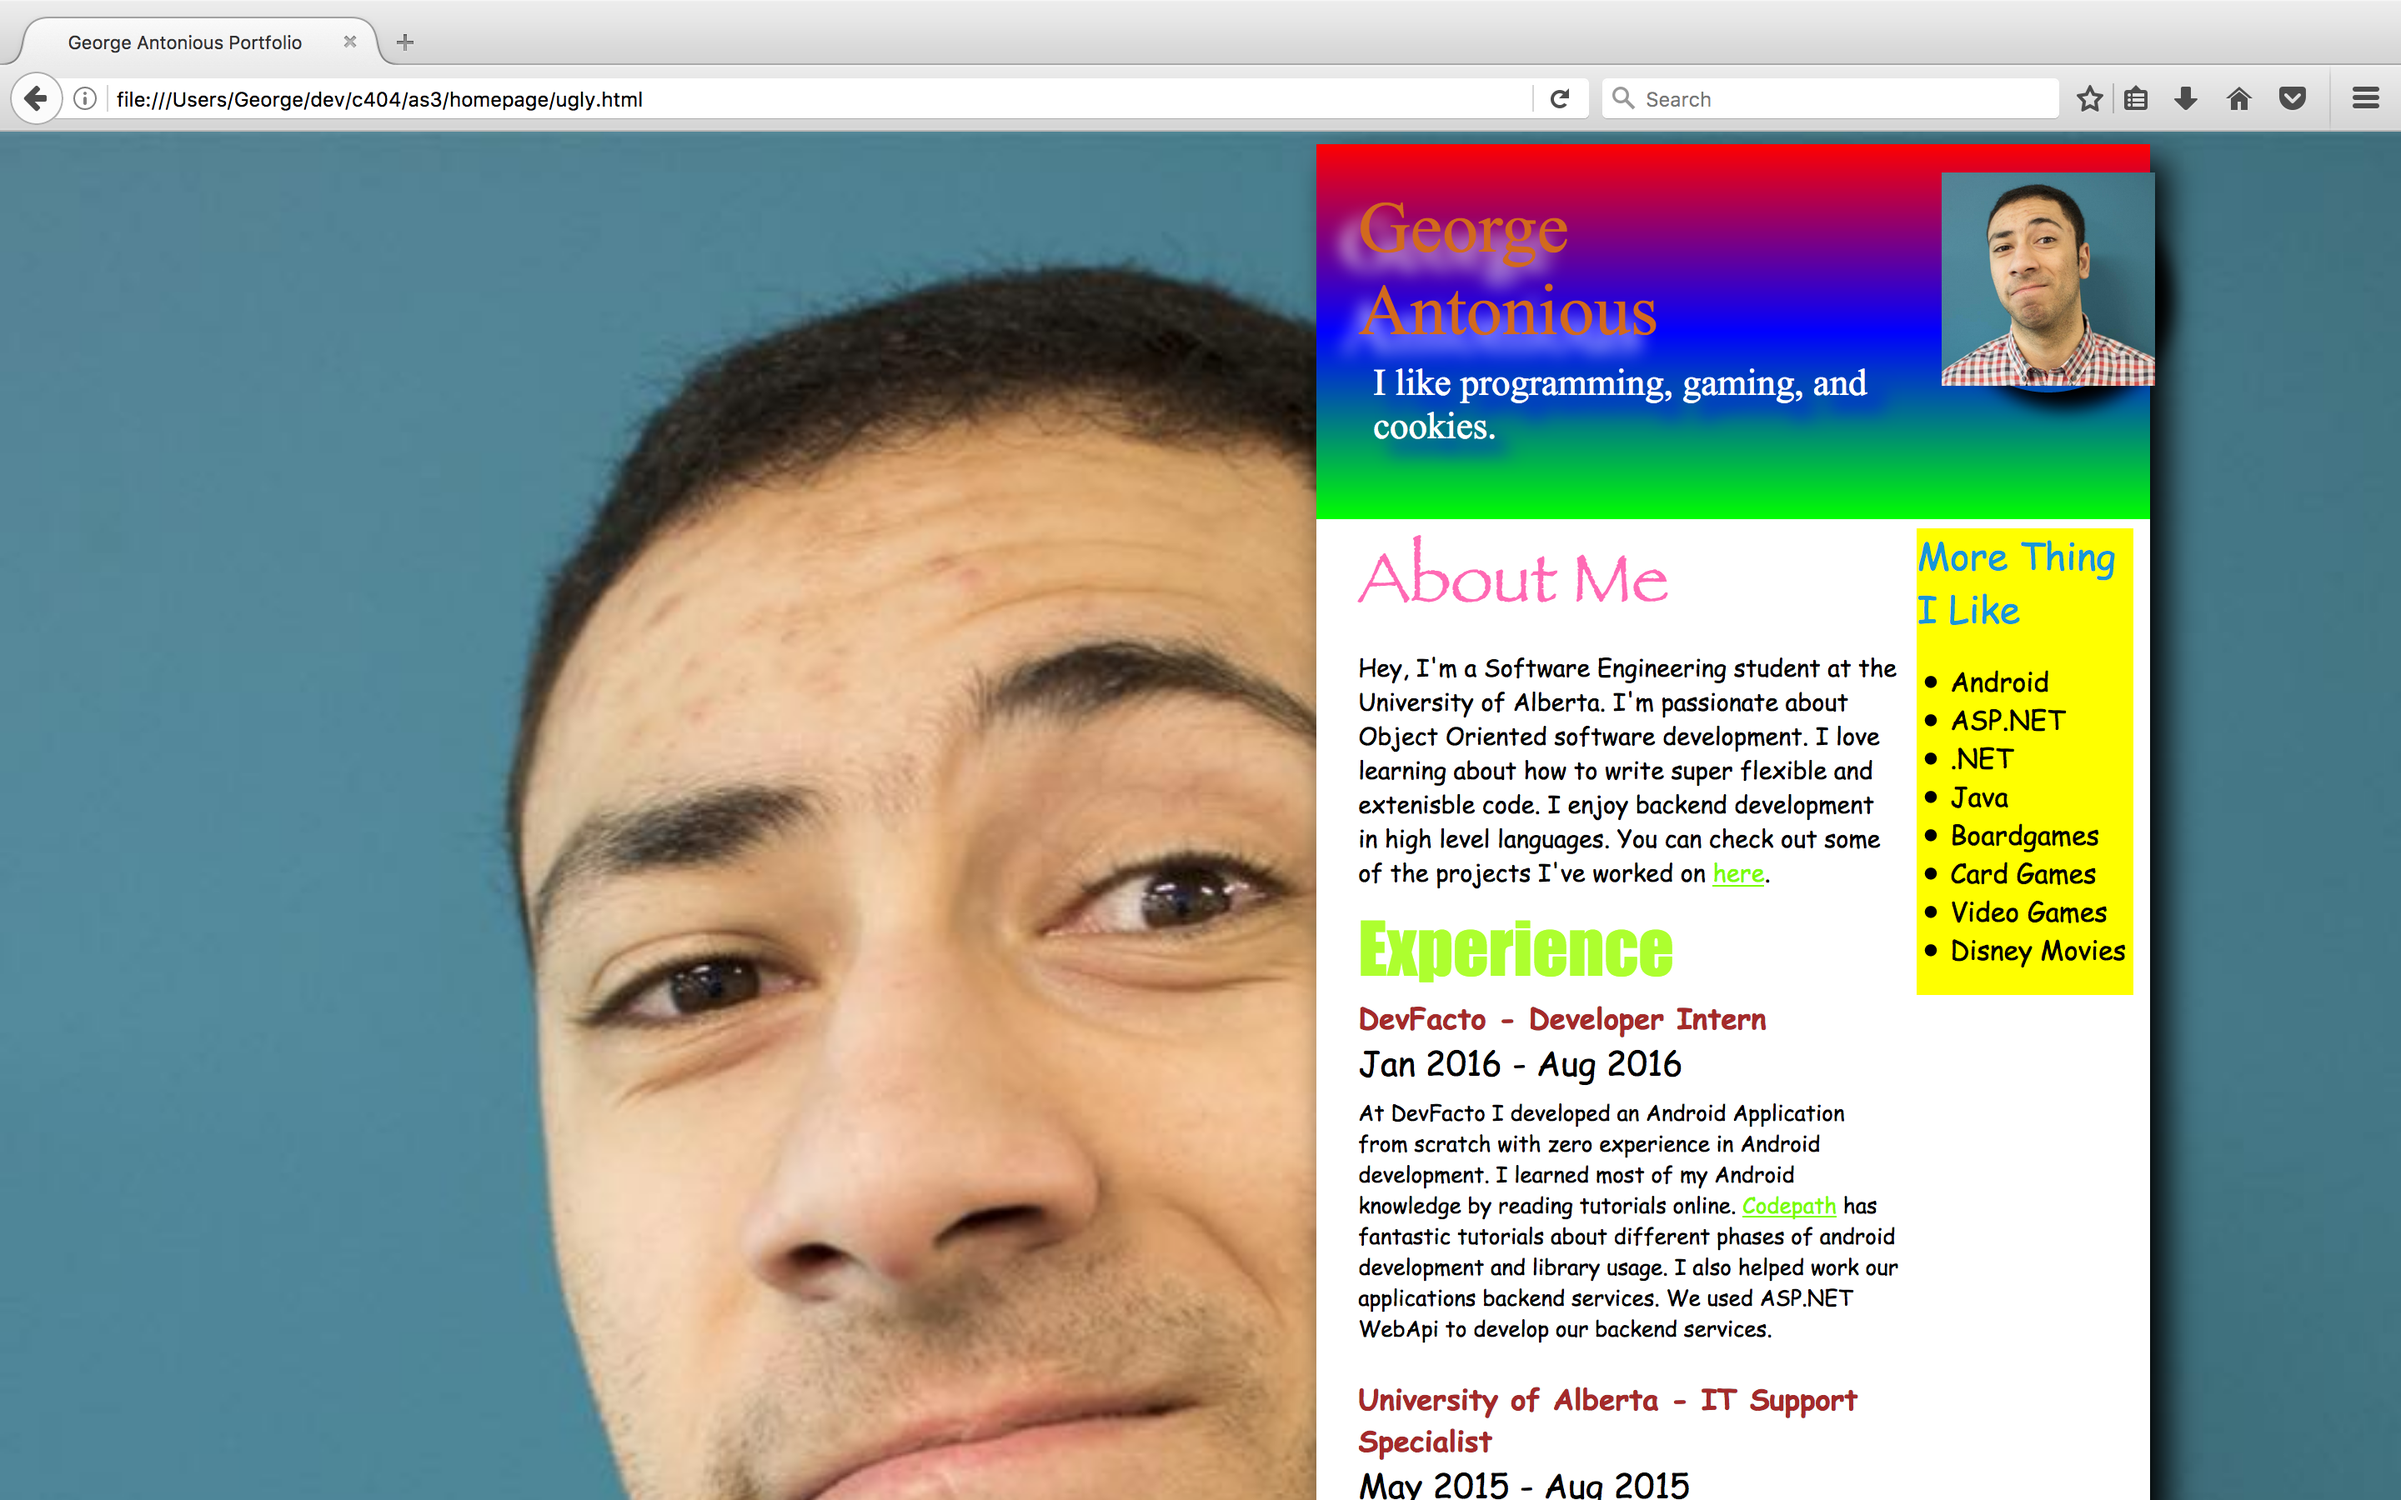
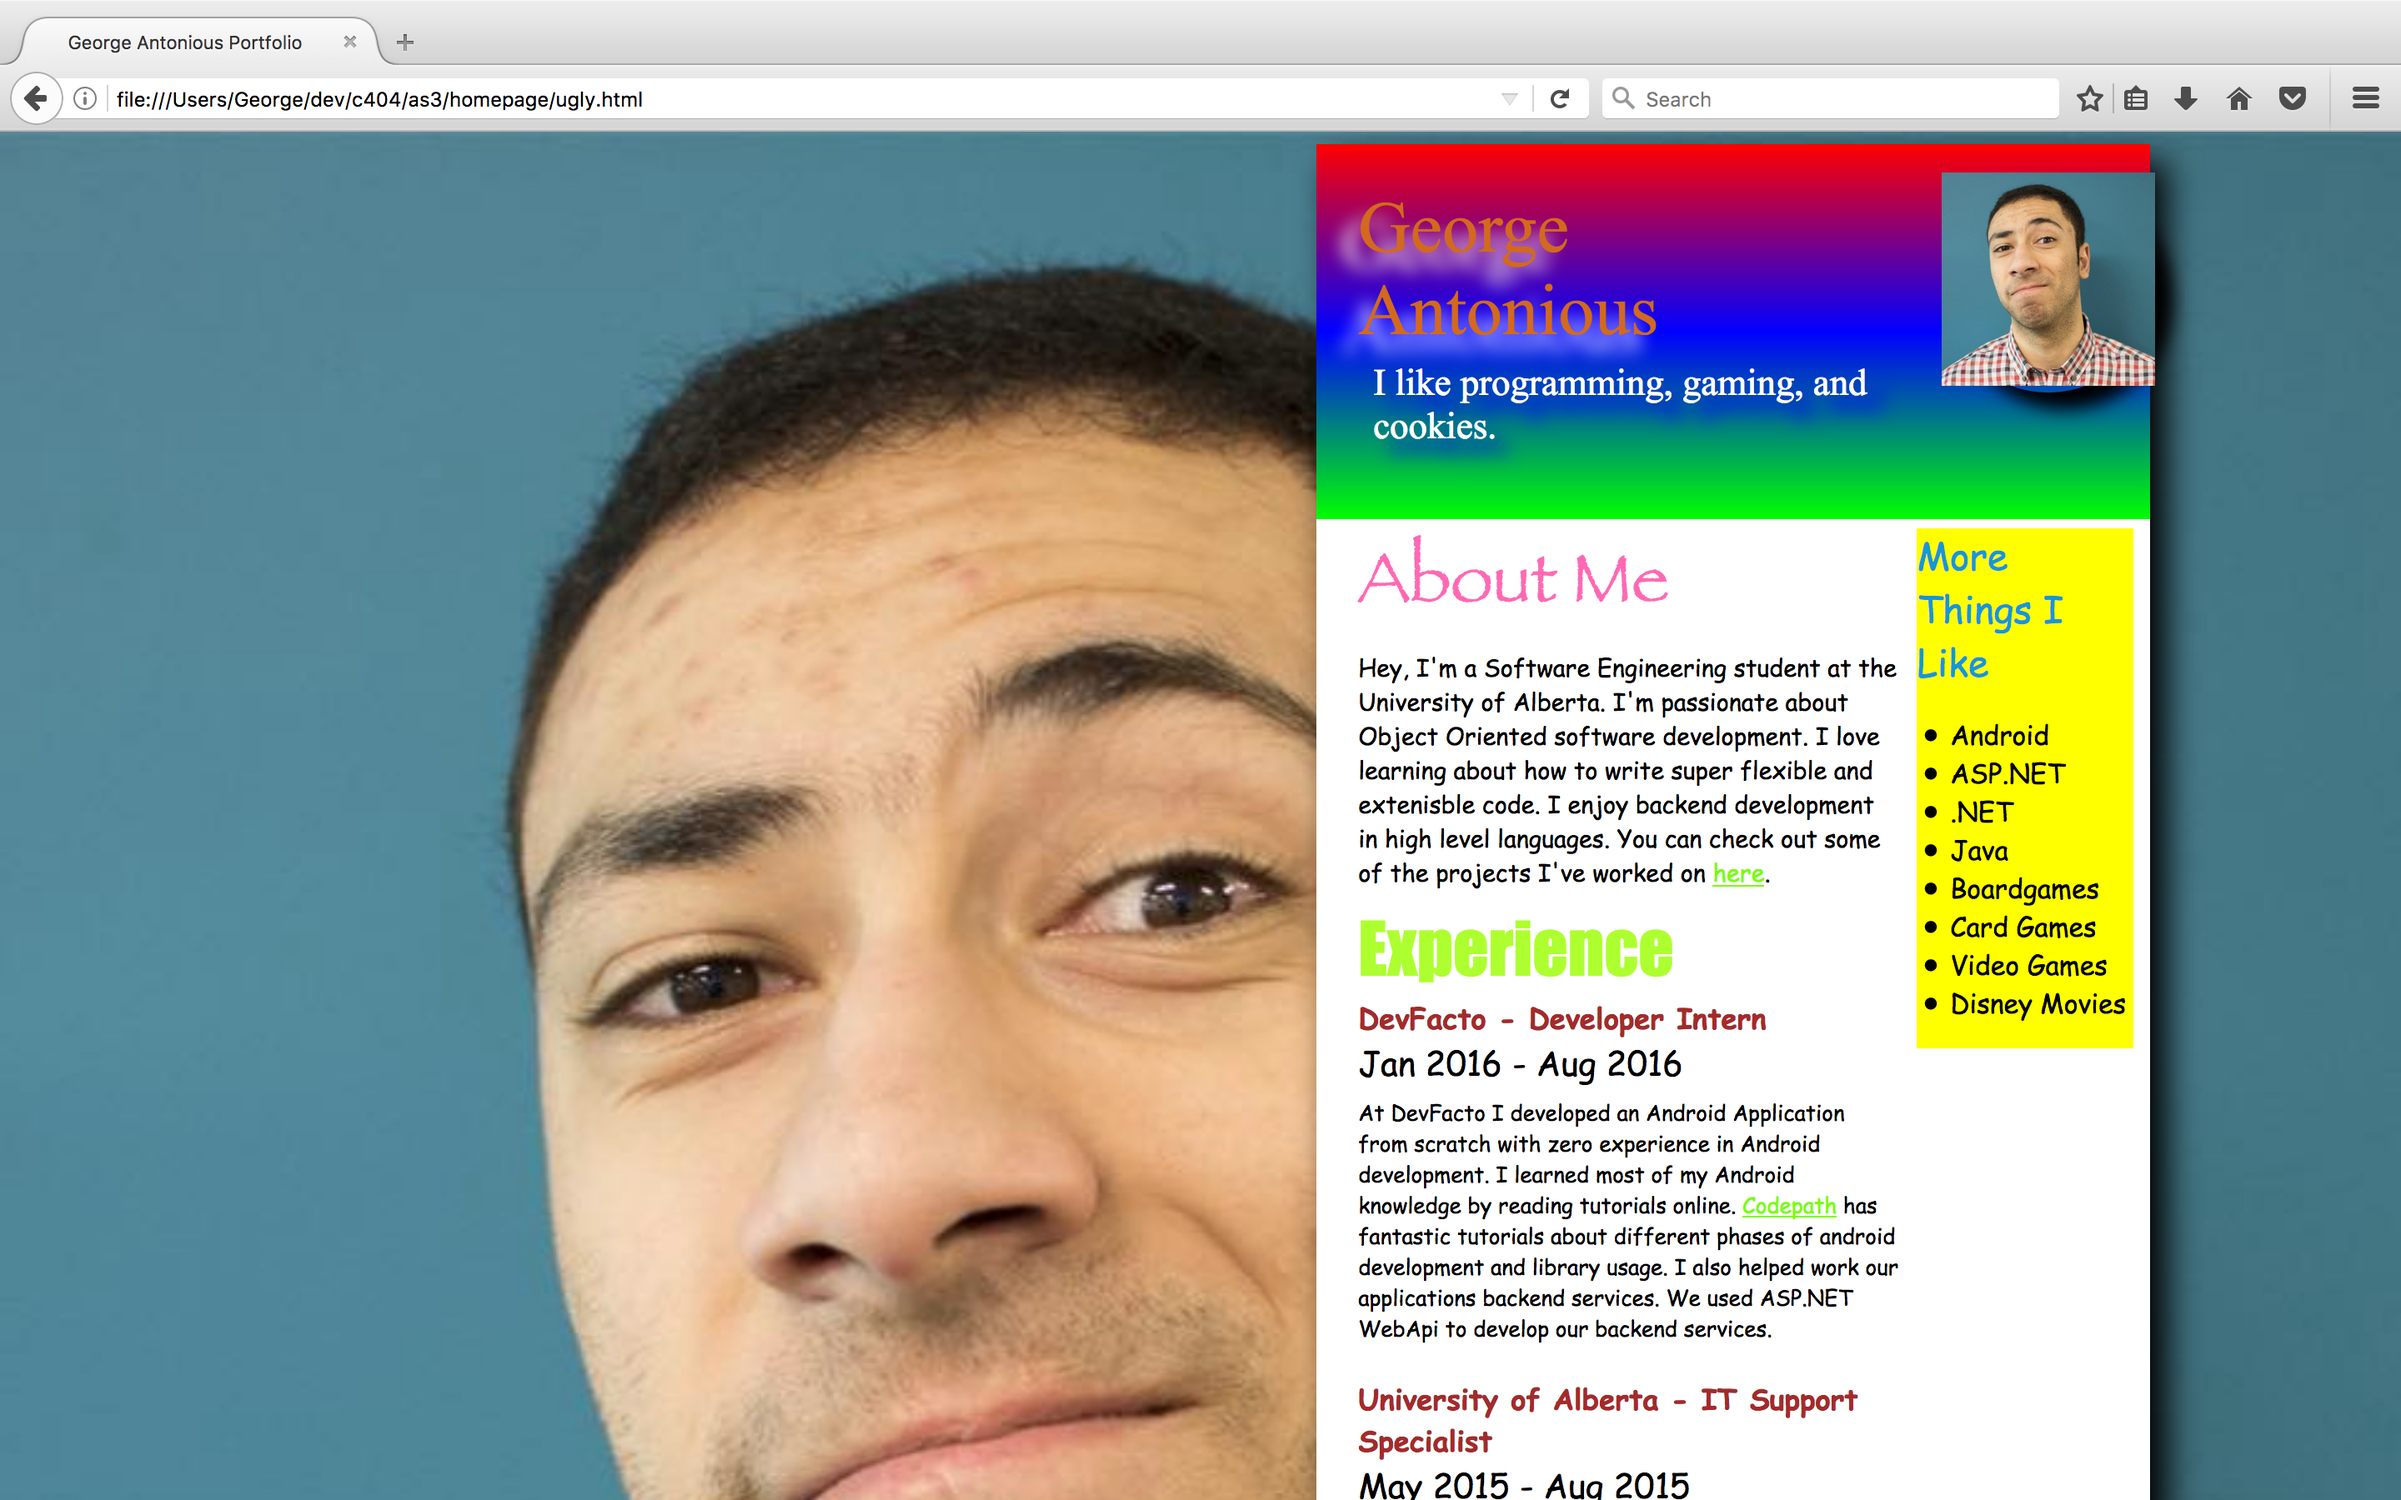
Fix typo in homepage

Changed region(s): [[0.7812, 0.4044, 0.9062, 0.7156], [0.8438, 0.3422, 0.875, 0.4044]]

diff --git a/homepage/good.html b/homepage/good.html
@@ -23,7 +23,7 @@
             </div>
 
             <div class="sidebar">
-                <div class="sidebar_title">More Thing I Like</div>
+                <div class="sidebar_title">More Things I Like</div>
                 <div class="sidebar_content">
                     <ul>
                         <li>Android</li>

diff --git a/homepage/ugly.html b/homepage/ugly.html
@@ -22,7 +22,7 @@
             </div>
 
             <div class="sidebar">
-                <div class="sidebar_title">More Thing I Like</div>
+                <div class="sidebar_title">More Things I Like</div>
                 <div class="sidebar_content">
                     <ul>
                         <li>Android</li>
